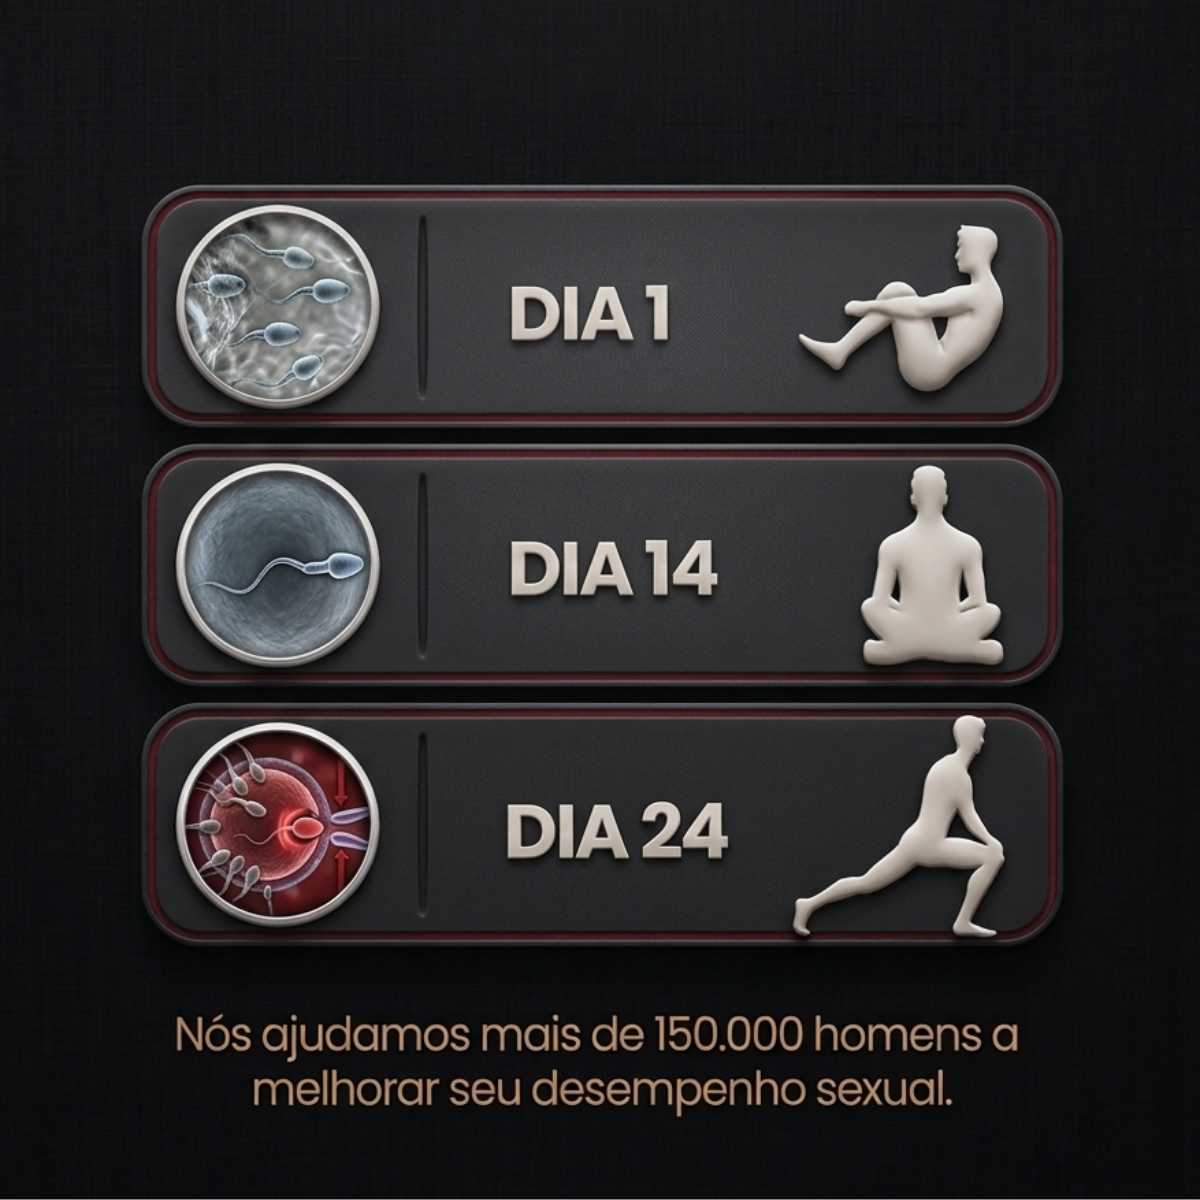
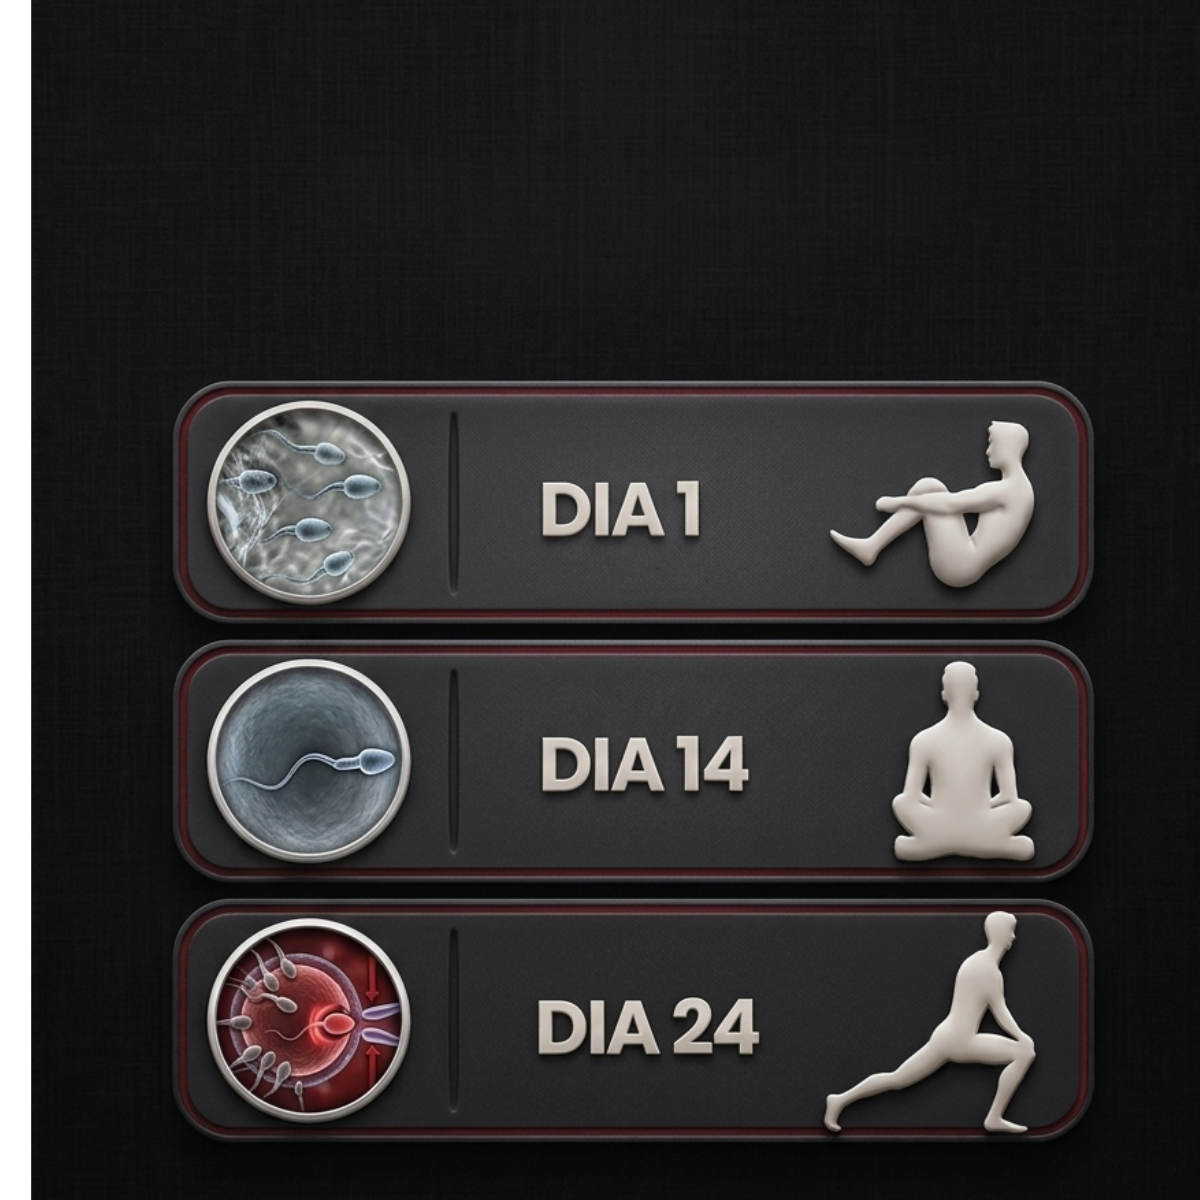
style: aumenta significativamente o tamanho das imagens das opções de tipo de corpo e ajusta proporção do texto

diff --git a/src/components/quiz/QuizContainer.tsx b/src/components/quiz/QuizContainer.tsx
@@ -134,10 +134,10 @@ const QuizContainer: React.FC = () => {
                   }`}
                   style={{ animation: `fadeInUp 0.4s ease-out ${i * 80}ms both` }}
                 >
-                  <img src={opt.img} alt={opt.label} className="w-16 h-16 object-contain flex-shrink-0" loading="lazy" width={512} height={512} />
+                  <img src={opt.img} alt={opt.label} className="w-28 h-28 sm:w-36 sm:h-36 object-contain flex-shrink-0 drop-shadow-sm transition-transform group-hover:scale-105" loading="lazy" width={512} height={512} />
                   <div className="flex-1">
-                    <p className="font-medium text-sm text-foreground">{opt.label}</p>
-                    <p className="text-xs text-muted-foreground mt-0.5">{opt.sub}</p>
+                    <p className="font-semibold text-lg text-foreground">{opt.label}</p>
+                    <p className="text-sm text-muted-foreground mt-0.5">{opt.sub}</p>
                   </div>
                   <div className={`w-5 h-5 rounded-full border-2 flex items-center justify-center transition-all duration-300 flex-shrink-0 ${
                     answers[2] === opt.label ? "border-primary bg-primary" : "border-muted-foreground/30"